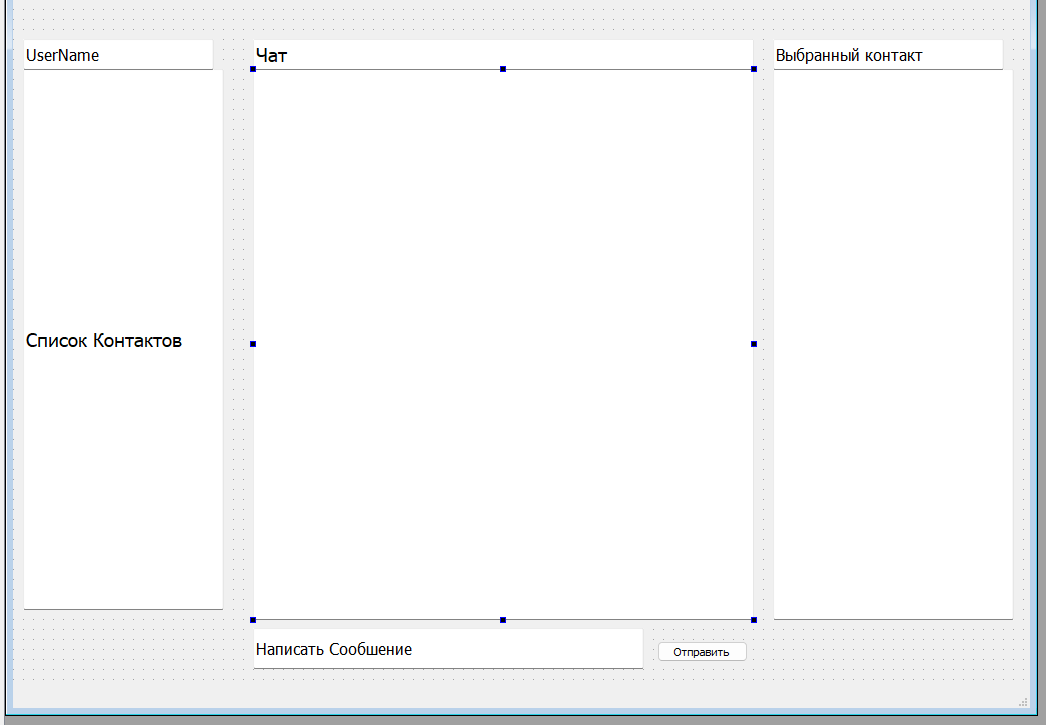
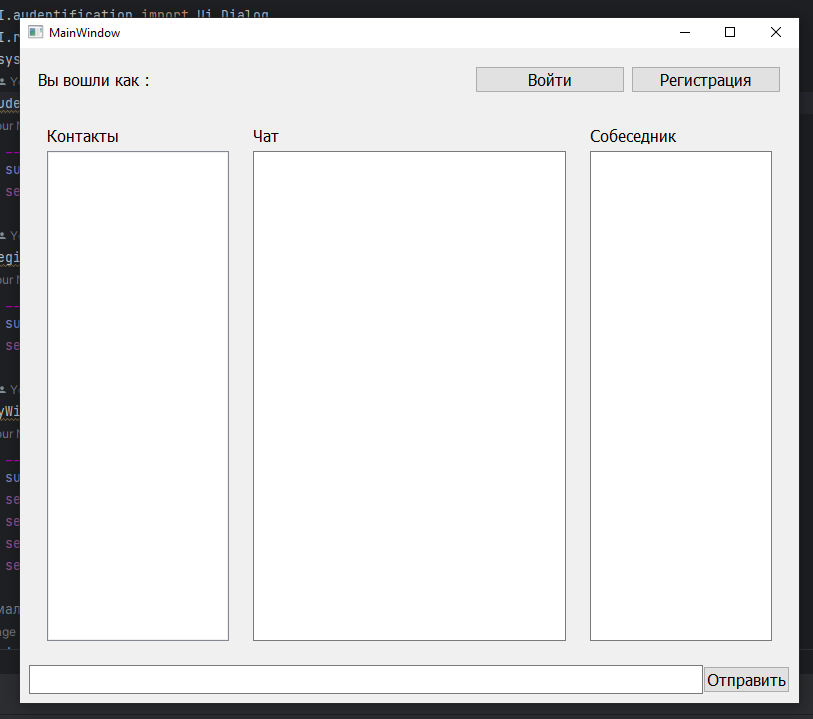
Homework Messenger MVP proect

diff --git a/Homework10/Read.md b/Homework10/Read.md
@@ -1,17 +1,31 @@
 ### Разработать приложение мессенджера (на выбор desktop/web/mobile). Требуется написать use case диаграмму, выбрать архитектуру для приложения (кратко обосновать выбор), UML и ER диаграммы для выбранной архитектуры. Используя метод персон (не менее 3), описать каких функций не хватает. Пересмотреть UML и ER диаграммы с учетом недостатков. Создать интерфейс в figma для приложения.
 
-#### use case диаграмму
+### use case диаграмму
 ![](UserCase.drawio.png)
 
 Выбрана клиент-серверная архитектура для приложения мессенджера. Приложение будет иметь клиентскую часть, реализованную на desktop, которая будет общаться с сервером, ответственным за хранение и передачу сообщений и данных пользователей. Такая архитектура позволит обеспечить высокую надежность и масштабируемость системы, а также обеспечит защиту данных пользователей.
 
-#### UML_Diagramm
+### UML_Diagramm
 ![](UML_Diagramm.drawio.png)
 
-#### ER_Diagramm
+### ER_Diagramm
 
 ![](ER_Diagramm.drawio.png)
 
-#### Интерфейс
+### Интерфейс
 
 ![](Interface.png)
+
+### Авторизация
+
+![](Autirization.png)
+
+### Регистрация
+
+![](Registration.png)
+
+
+### Интерфейс разработан на языке Python используя модул PyQt5
+### Для запуска перейти в папку messenger и запустить файл main.py
+
+
